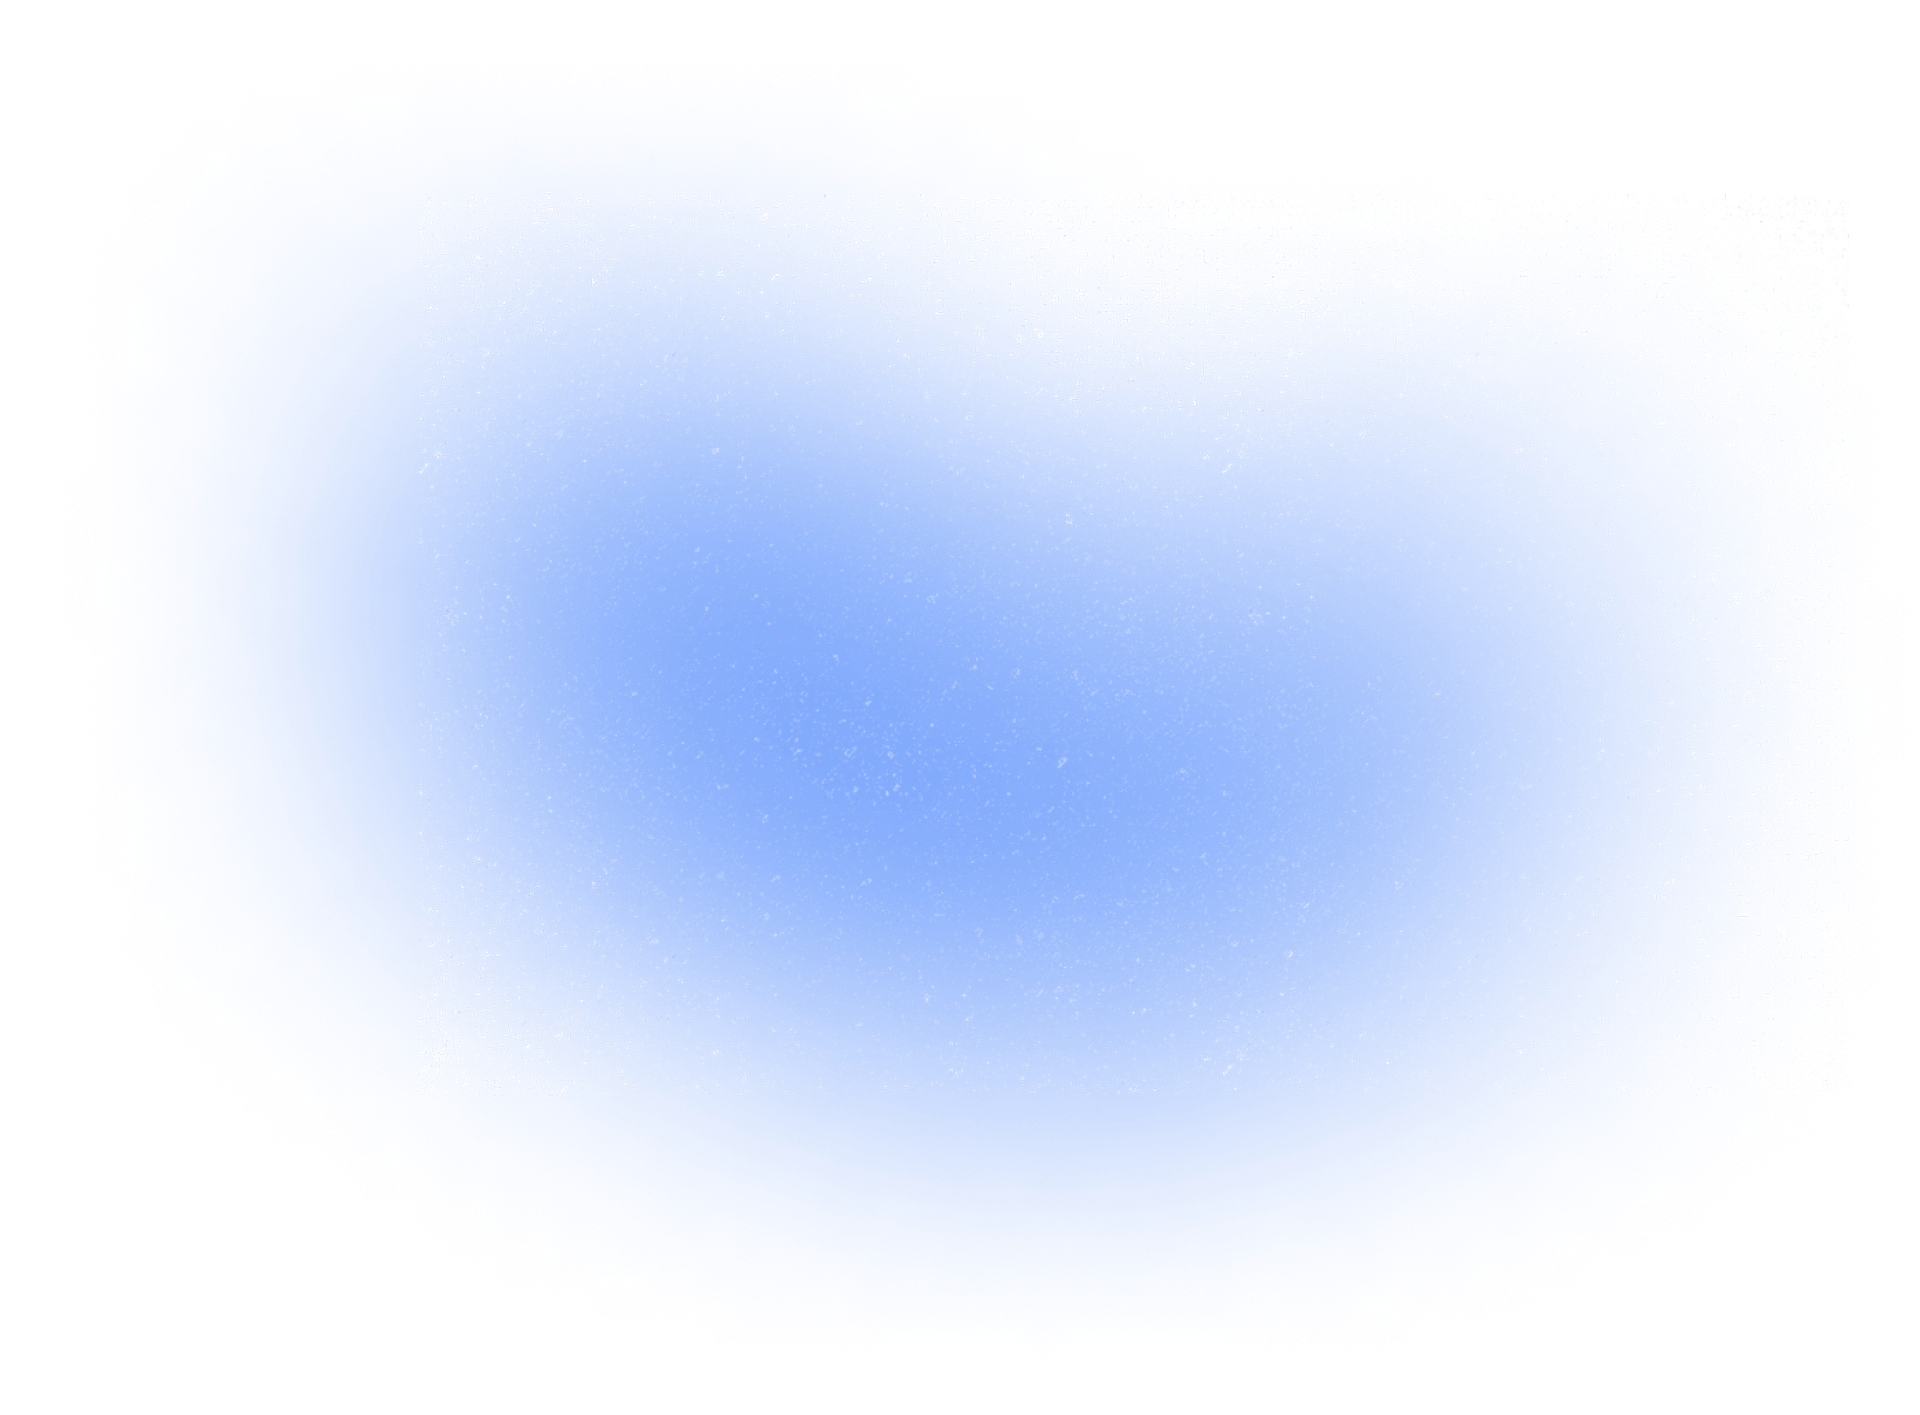
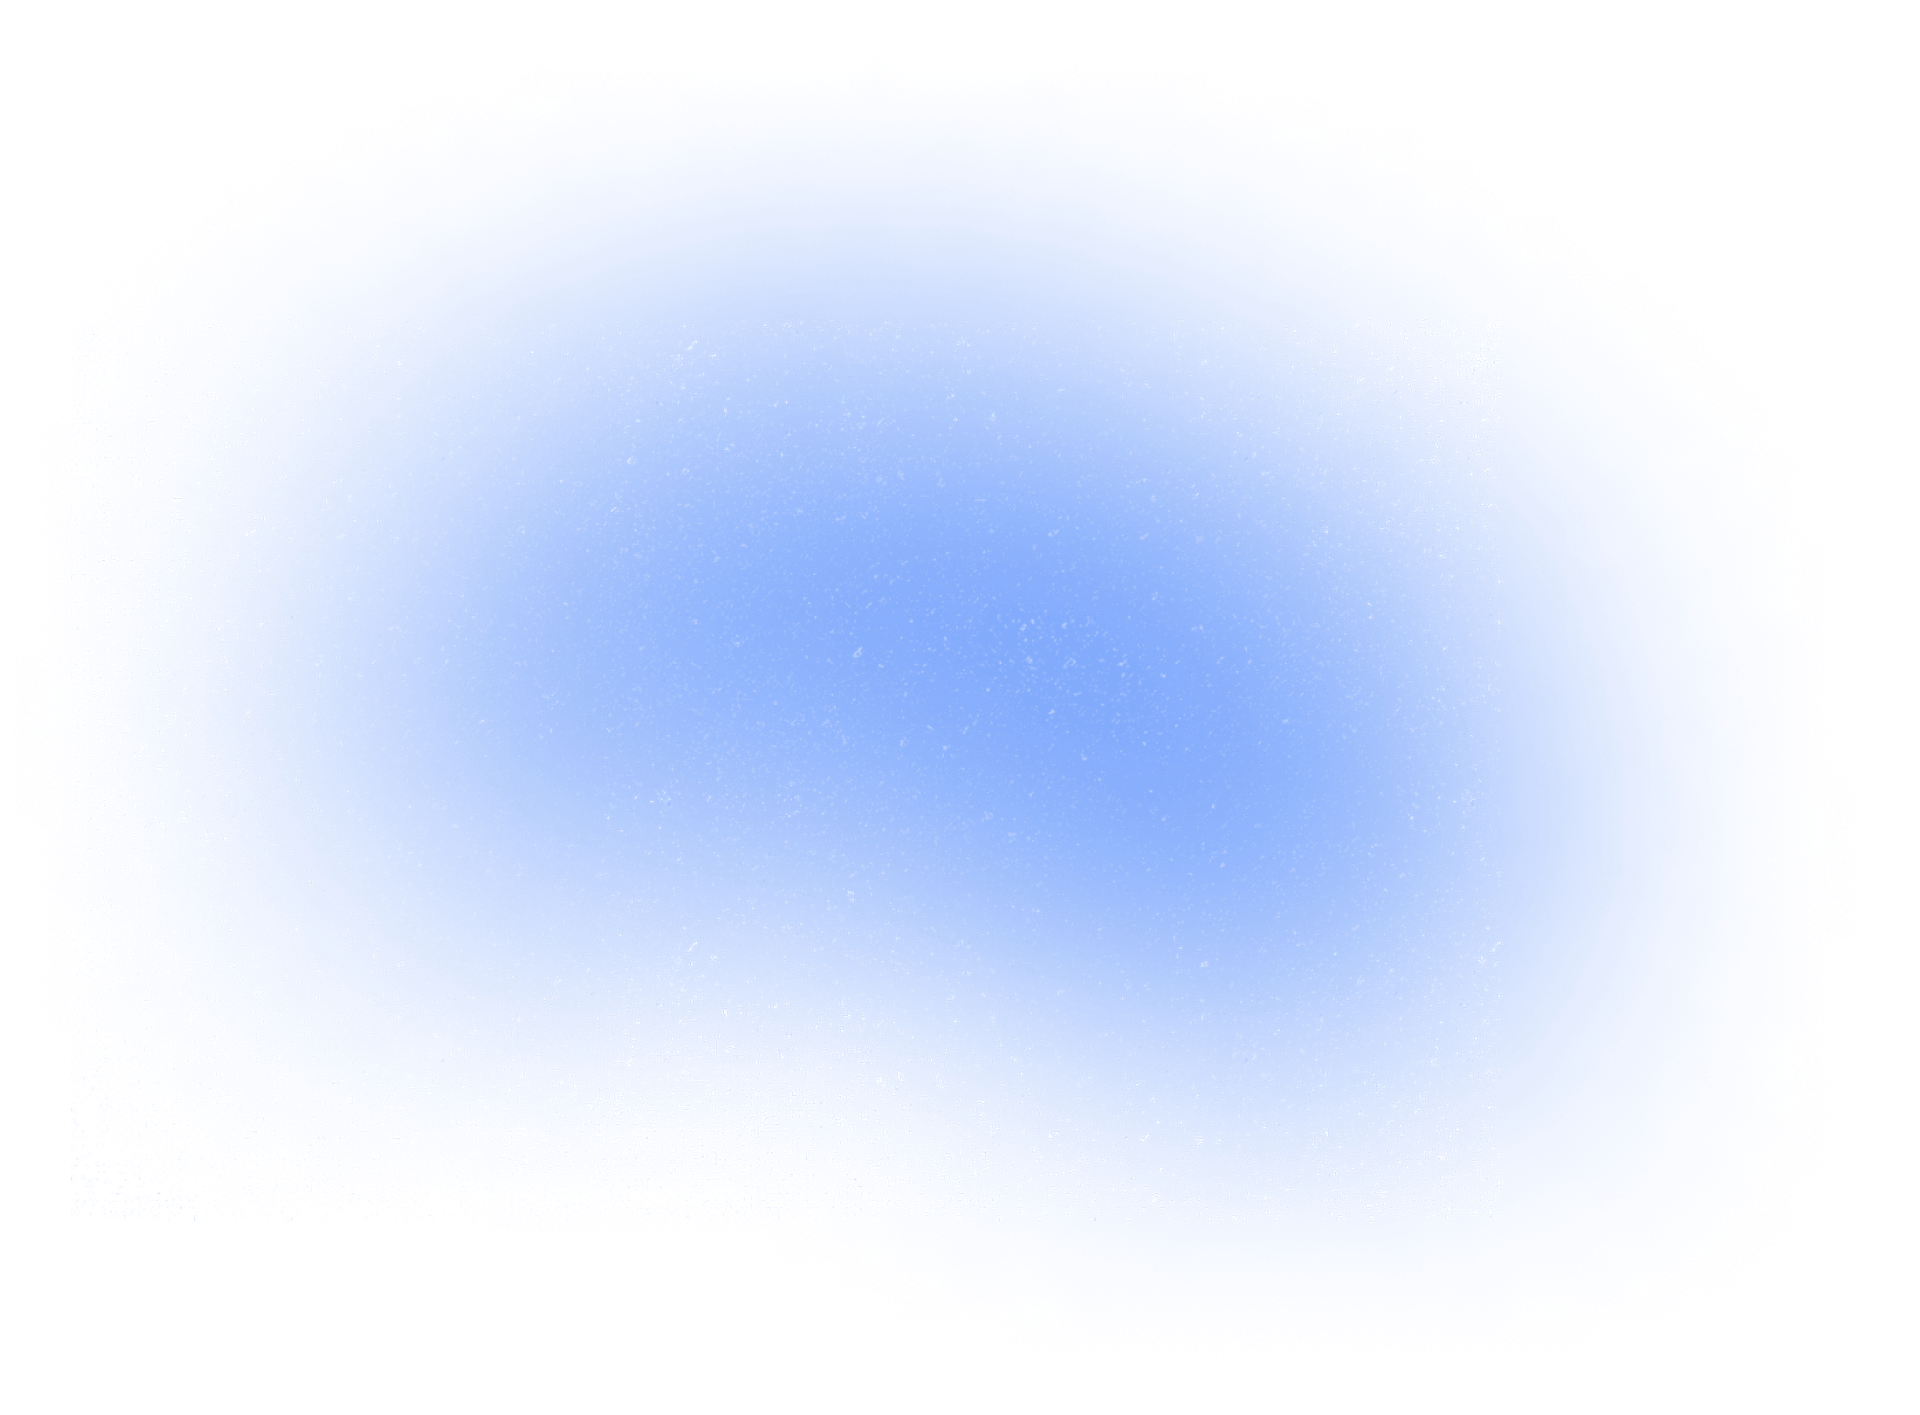
frontend setup

Changed region(s): [[0.3438, 0.4975, 0.5625, 0.8396], [0.4375, 0.1555, 0.6562, 0.4975]]

diff --git a/src/components/Navbar.jsx b/src/components/Navbar.jsx
@@ -1,63 +1,126 @@
 import { useState } from 'react';
 import assets from '../assets/assets';
-import { FaArrowRightLong } from "react-icons/fa6";
 import { CiLight } from 'react-icons/ci';
 import { CiDark } from 'react-icons/ci';
 import useThemeStore from '../store/ThemeStore';
-import Menu from './menu';
-
 
 const Navbar = () => {
   const { isDark, toggleTheme } = useThemeStore();
   const [openMenu, setOpenMenu] = useState(false);
 
-
   return (
-    <nav className="w-full sticky top-0 z-50 transition-colors duration-300 bg-white/90 dark:bg-black/90 text-gray-900 dark:text-white backdrop-blur-xl">
+    <>
+      <nav className="w-full sticky top-0 z-50 transition-colors duration-300 bg-white/90 dark:bg-black/90 text-gray-900 dark:text-white backdrop-blur-xl">
+        <div className='max-w-7xl mx-auto flex justify-between items-center px-4 sm:px-12 lg:px-24 xl:px-40 py-4'>
 
-      <div className='max-w-7xl mx-auto flex justify-between items-center px-4 sm:px-12 lg:px-24 xl:px-40 py-4'>
+          {/* Logo */}
+          <img
+            src={isDark ? assets.logo_dark : assets.logo}
+            className='w-32 sm:w-40 cursor-pointer'
+            alt='logo'
+          />
 
-        {/* Logo Toggle */}
-        <img
-          src={isDark ? assets.menu_icon_dark : assets.menu_icon}
-          alt="Menu"
-          className="w-[25px] cursor-pointer block md:hidden"
-          onClick={()=>setOpenMenu(true)}
-        />
+          {/* Desktop Navigation Links */}
+          <div className='hidden md:block'>
+            <ul className="flex gap-8 font-medium cursor-pointer text-gray-600 dark:text-gray-300">
+              <li className="hover:text-blue-500 transition">Home</li>
+              <li className="hover:text-blue-500 transition">Services</li>
+              <li className="hover:text-blue-500 transition">Our Work</li>
+              <li className="hover:text-blue-500 transition">Testimonials</li>
+            </ul>
+          </div>
 
-        <img
-          src={isDark ? assets.logo_dark : assets.logo}
-          className='w-32 sm:w-40 cursor-pointer'
-          alt='logo'
-        />
+          {/* Action Buttons */}
+          <div className='flex items-center gap-4'>
+            <button
+              onClick={toggleTheme}
+              className="text-2xl border rounded-full w-10 h-10 flex items-center justify-center transition-all border-gray-400 text-gray-600 hover:bg-gray-100 dark:border-yellow-400 dark:text-yellow-400 dark:hover:bg-yellow-400/10"
+            >
+              {isDark ? <CiLight /> : <CiDark />}
+            </button>
 
-        {/* Navigation Links */}
-        <div className='hidden md:block'>
-          <ul className="flex gap-8 font-medium cursor-pointer text-gray-600 dark:text-gray-300">
-            <li className="hover:text-blue-500 transition">Home</li>
-            <li className="hover:text-blue-500 transition">Services</li>
-            <li className="hover:text-blue-500 transition">Our Work</li>
-            <li className="hover:text-blue-500 transition">Testimonials</li>
+            <button className='hidden sm:flex items-center justify-center w-40 bg-indigo-600 hover:bg-indigo-600 text-white px-6 py-3 rounded-full transition-all gap-4 group'>
+              Connect 
+             <img src={assets.arrow_icon} alt="arrow icon" className='mt-1' />
+            </button>
+
+            {/* Mobile Menu Icon */}
+            <img
+              src={isDark ? assets.menu_icon_dark : assets.menu_icon}
+              alt="Menu"
+              className="w-[25px] cursor-pointer block md:hidden"
+              onClick={() => setOpenMenu(true)}
+            />
+          </div>
+        </div>
+      </nav>
+
+      {/* Mobile Sidebar Menu */}
+      <div
+        className={`fixed top-0 right-0 h-full w-64 bg-white dark:bg-gray-900 shadow-2xl z-[100] transform transition-transform duration-300 ease-in-out ${
+          openMenu ? 'translate-x-0' : 'translate-x-full'
+        }`}
+      >
+        <div className="flex flex-col h-full">
+          {/* Close Button */}
+          <div className="flex justify-end p-6">
+            <img
+              src={isDark ? assets.close_icon : assets.close_icon}
+              alt="Close"
+              className="w-6 cursor-pointer"
+              onClick={() => setOpenMenu(false)}
+            />
+          </div>
+
+          {/* Mobile Navigation Links */}
+          <ul className="flex flex-col gap-6 px-8 text-gray-700 dark:text-gray-300 font-medium">
+            <li 
+              className="hover:text-blue-500 transition cursor-pointer"
+              onClick={() => setOpenMenu(false)}
+            >
+              Home
+            </li>
+            <li 
+              className="hover:text-blue-500 transition cursor-pointer"
+              onClick={() => setOpenMenu(false)}
+            >
+              Services
+            </li>
+            <li 
+              className="hover:text-blue-500 transition cursor-pointer"
+              onClick={() => setOpenMenu(false)}
+            >
+              Our Work
+            </li>
+            <li 
+              className="hover:text-blue-500 transition cursor-pointer"
+              onClick={() => setOpenMenu(false)}
+            >
+              Testimonials
+            </li>
           </ul>
+
+          {/* Connect Button in Mobile Menu */}
+          <div className="px-8 mt-8">
+            <button 
+              className='flex items-center justify-center w-full bg-blue-700 hover:bg-blue-800 text-white px-6 py-3 rounded-full transition-all gap-2 group'
+              onClick={() => setOpenMenu(false)}
+            >
+              Connect 
+              <img src={assets.arrow_icon} alt="" />
+            </button>
+          </div>
         </div>
-
-        {/* Action Buttons */}
-        <div className='flex items-center gap-4'>
-          <button
-            onClick={toggleTheme}
-            className="text-2xl border rounded-full w-10 h-10 flex items-center justify-center transition-all border-gray-400 text-gray-600 hover:bg-gray-100 dark:border-yellow-400 dark:text-yellow-400 dark:hover:bg-yellow-400/10"
-          >
-            {isDark ? <CiLight /> : <CiDark />}
-          </button>
-
-          <button className='hidden sm:flex items-center  justify-center bg-blue-700 hover:bg-blue-800 text-white px-6 py-2.5 rounded-full transition-all gap-2 group'>
-            Connect
-            <FaArrowRightLong className="group-hover:translate-x-1 transition-transform" />
-          </button>
-        </div>
-
       </div>
-    </nav>
+
+      {/* Overlay/Backdrop */}
+      {openMenu && (
+        <div
+          className="fixed inset-0 bg-black/50 z-[90] md:hidden"
+          onClick={() => setOpenMenu(false)}
+        />
+      )}
+    </>
   );
 };
 

diff --git a/src/components/InnerPage.jsx b/src/components/InnerPage.jsx
@@ -11,54 +11,65 @@ import ContactForm from './ReachOut'
 export default function InnerPage() {
   return (
     <>
-    <div className='flex flex-col items-center justify-center text-center px-6 pt-20 pb-10'>
+      <div className='flex flex-col items-center justify-center text-center px-6 pt-20 pb-10'>
 
 
-      <div className='border border-gray-300 dark:border-gray-600 rounded-full flex items-center gap-2 px-3 py-2 mb-8 shadow-sm bg-white dark:bg-gray-800'>
-        <img className='w-20' src={assets.group_profile} alt="Profiles" />
-        <span className='text-xs sm:text-sm text-gray-600 dark:text-gray-400'>
-          Trusted by 10K+ people
-        </span>
-      </div>
-
-
-      <h1 className=' text-5xl  md:text-8xl font-semibold tracking-tight text-gray-800 dark:text-white max-w-5xl'>
-        Turning imagination into
-        <div className='flex justify-center gap-6'>
-
-        <p className='text-blue-500 my-2'>digital </p>
-        <p className='text-gray-800 dark:text-white my-2 '>impact.</p>
-        </div>
-      </h1>
-
-
-      <p className='mt-8 text-gray-500 dark:text-gray-400 text-lg md:text-xl max-w-2xl leading-relaxed'>
-        Creating meaningful connections and turning big ideas <br className='hidden md:block' />
-        into interactive digital experiences.
-      </p>
-      <img className='w-[75%] my-12' src={assets.hero_img} alt="" />
-
-      {/* Trusted Partners */}
-      <p className='text-gray-700 mt-14 font-semibold  dark:text-gray-500 text-sm  '>
-        Trusted by Leading Companies
-      </p>
-
-      <div className=' w-full max-w-5xl'>
-        <div className='flex flex-wrap justify-center md:justify-between items-center gap-10 md:gap-8  mt-9'>
-          <img className='w-24 md:w-28 object-contain' src={company_logos.coinbase_logo} alt="Coinbase" />
-          <img className='w-20 md:w-24 object-contain' src={company_logos.google_logo} alt="Google" />
-          <img className='w-24 md:w-28 object-contain' src={company_logos.rakuten_logo} alt="Rakuten" />
-          <img className='w-24 md:w-28 object-contain' src={company_logos.microsoft_logo} alt="Microsoft" />
-          <img className='w-20 md:w-24 object-contain' src={company_logos.airbnb_logo} alt="Airbnb" />
-          <img className='w-20 md:w-24 object-contain' src={company_logos.zoom_logo} alt="Zoom" />
+        <div className='border border-gray-300 dark:border-gray-600 rounded-full flex items-center gap-2 px-3 py-2 mb-8 shadow-sm bg-white dark:bg-gray-800'>
+          <img className='w-20' src={assets.group_profile} alt="Profiles" />
+          <span className='text-xs sm:text-sm text-gray-600 dark:text-gray-400'>
+            Trusted by 10K+ people
+          </span>
         </div>
 
+
+        <h1 className=' text-5xl  md:text-8xl font-semibold tracking-tight text-gray-800 dark:text-white max-w-5xl'>
+          Turning imagination into
+          <div className='flex justify-center gap-6'>
+
+            <p className='text-blue-500 my-2'>digital </p>
+            <p className='text-gray-800 dark:text-white my-2 '>impact.</p>
+          </div>
+        </h1>
+
+
+        <p className='mt-8 text-gray-500 dark:text-gray-400 text-lg md:text-xl max-w-2xl leading-relaxed'>
+          Creating meaningful connections and turning big ideas <br className='hidden md:block' />
+          into interactive digital experiences.
+        </p>
+
+        <img className='w-[75%] my-12' src={assets.hero_img} alt="" />
+        <img
+          src={assets.bgImage1}
+          alt=""
+          className="absolute inset-0 min-h-min  w-[83%] object-cover rounded-full -z-10 mt-96 ml-16 md:h-full md:mt-64 md:ml-64 "/>
+          <img
+          src={assets.bgImage2}
+          alt=""
+          className="absolute inset-0 min-h-min  w-[83%] object-cover rounded-full -z-10 mt-80 ml-16 md:h-full md:mt-[999px] md:ml-0 "/>
+
+
+
+        {/* Trusted Partners */}
+        <p className='text-gray-700 mt-14 font-semibold  dark:text-gray-500 text-sm  '>
+          Trusted by Leading Companies
+        </p>
+
+        <div className=' w-full max-w-5xl'>
+          <div className='flex flex-wrap justify-center md:justify-between items-center gap-10 md:gap-8  mt-9'>
+            <img className='w-24 md:w-28 object-contain' src={company_logos.coinbase_logo} alt="Coinbase" />
+            <img className='w-20 md:w-24 object-contain' src={company_logos.google_logo} alt="Google" />
+            <img className='w-24 md:w-28 object-contain' src={company_logos.rakuten_logo} alt="Rakuten" />
+            <img className='w-24 md:w-28 object-contain' src={company_logos.microsoft_logo} alt="Microsoft" />
+            <img className='w-20 md:w-24 object-contain' src={company_logos.airbnb_logo} alt="Airbnb" />
+            <img className='w-20 md:w-24 object-contain' src={company_logos.zoom_logo} alt="Zoom" />
+          </div>
+
+        </div>
+        <Help />
+        <LatestWork />
+        <Team />
+        <ContactForm />
       </div>
-      <Help />
-      <LatestWork />
-      <Team />
-      <ContactForm />
-    </div>
     </>
   )
 }

diff --git a/src/components/Help.jsx b/src/components/Help.jsx
@@ -4,7 +4,7 @@ import assets from '../assets/assets'
 export default function Help() {
   return (
     <div>
-        <div className="text-center max-w-2xl mx-auto ">
+      <div className="text-center max-w-2xl mx-auto ">
         <h1 className="text-3xl sm:text-4xl font-semibold mt-40 text-gray-900 dark:text-white">
           How can we help?
         </h1>
@@ -14,7 +14,7 @@ export default function Help() {
           <p>span your business forward.</p>
         </p>
       </div>
-        <div className="">
+      <div className="">
         <div className="grid grid-cols-1 md:grid-cols-2 gap-8 mt-16 max-w-6xl mx-auto">
 
           {/* Card 1 - Advertising */}
@@ -25,7 +25,7 @@ export default function Help() {
             </div>
             <div className="relative z-10">
               <h3 className="text-left text-xl font-semibold text-gray-900 dark:text-white mb-2">
-              Advertising
+                Advertising
               </h3>
               <p className="text-left text-gray-600 dark:text-gray-300 leading-relaxed">
                 We turn bold ideas into powerful digital solutions that connect, engage and...
@@ -50,7 +50,7 @@ export default function Help() {
           </div>
 
           {/* Card 3 - Content Writing */}
-           <div className="group bg-white dark:bg-gray-800 rounded-2xl p-8 flex cursor-pointer gap-6 items-start shadow-lg transition-all duration-300 border-2 border-transparent hover:border-blue-500 relative overflow-hidden">
+          <div className="group bg-white dark:bg-gray-800 rounded-2xl p-8 flex cursor-pointer gap-6 items-start shadow-lg transition-all duration-300 border-2 border-transparent hover:border-blue-500 relative overflow-hidden">
             <div className="absolute inset-0 bg-gradient-to-br from-blue-50 via-purple-50 to-transparent dark:from-blue-900/20 dark:via-purple-900/20 opacity-40" />
             <div className="relative z-10 w-16 h-16 rounded-full bg-blue-50 dark:bg-blue-900/20 flex items-center justify-center flex-shrink-0">
               <img src={assets.content_icon} alt="Content Marketing" className="w-28 h-28 group-hover:scale-110 transition-transform" />
@@ -84,7 +84,7 @@ export default function Help() {
 
         </div>
       </div>
-      
+
     </div>
   )
 }

diff --git a/src/components/ReachOut.jsx b/src/components/ReachOut.jsx
@@ -103,7 +103,7 @@ export default function ContactForm() {
             onClick={handleSubmit}
             className="bg-indigo-600 hover:bg-indigo-700 text-white font-medium px-8 py-3 rounded-full transition-all duration-300 flex items-center gap-2 hover:gap-3 shadow-lg hover:shadow-xl"
           >
-            Submit<FaArrowRightLong />
+            Submit <img src={assets.arrow_icon} alt="" />
           </button>
         </div>
       </div>
